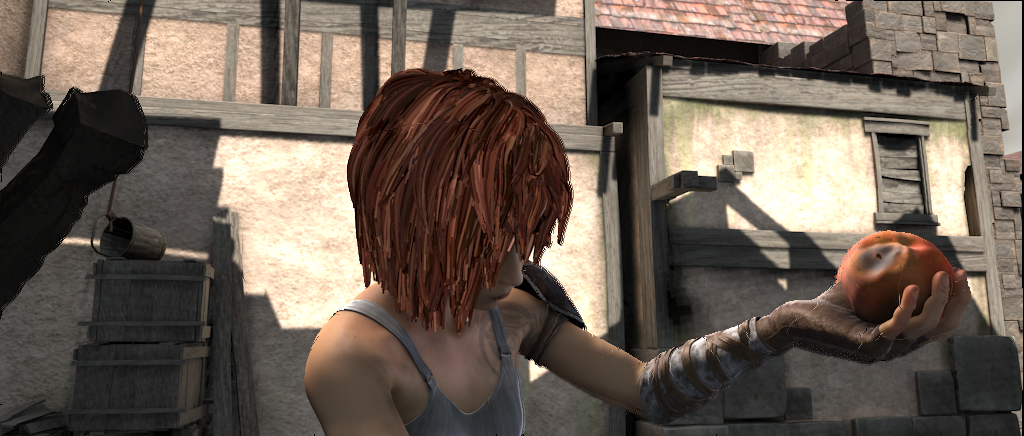
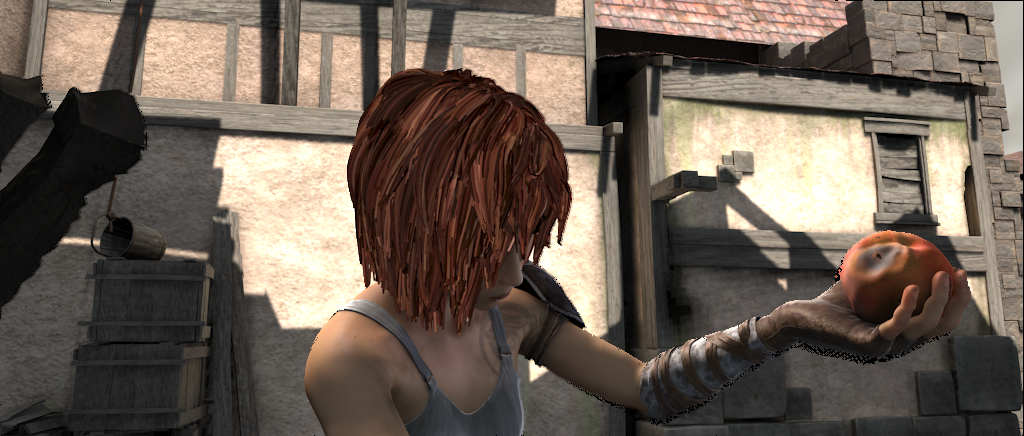
纠正光流:forward_warp中插值的错误; forward_warp添加基于像素距离的判断, 结果和选取运动大的像素差别不大

diff --git a/optical_flow/warp/crane_warp.cpp b/optical_flow/warp/crane_warp.cpp
@@ -7,8 +7,8 @@
 #include <algorithm>
 
 
-template<typename T, typename A, typename B>
-inline T clip(const T x, const A lhs, const B rhs) {
+template<typename S=float, typename T=unsigned char>
+inline T clip(const S x, const T lhs, const T rhs) {
 	if (x < lhs) return lhs;
 	else if (x > rhs) return rhs;
 	else return x;
@@ -72,8 +72,7 @@ void backward_warp_using_flow_inplementation(
 					float down_value = y_low_weight * Q3 + y_high_weight * Q4;
 					// 上下加权
 					float value = x_low_weight * up_value + x_high_weight * down_value;
-					result[(i * width + j) * channel + c] = 
-						clip<type, type, type>(value, 0, 255);
+					result[(i * width + j) * channel + c] = clip(value, 0, 255);
 				}
 			}
 			// 如果是最近邻插值
@@ -149,7 +148,12 @@ inline T square(const T x) {
 }
 
 
-
+/*
+	这种 full 做法不行
+		1. 加权半径 radius 设置多大? 不好控制
+		2. 速度太慢, 不可取
+		3. 加权导致 warp 结果变模糊, 丢失高频细节
+*/
 void full_forward_warp_using_flow_inplementation(
 		unsigned char* result, 
 		unsigned char* source,
@@ -269,42 +273,34 @@ void interp_forward_warp_using_flow_inplementation(
 	}
 	// 第二轮, 找到没被赋值的点, 做赋值
 
-	// 准备一些查表的变量
-	const int spatial_size = square<int>(2 * radius + 1);
-	std::vector< std::pair<int, float> > spatial_lut;
-	for (int x = -radius; x <= radius; ++x) {
-		for (int y = -radius; y <= radius; ++y) {
-			spatial_lut.emplace_back(x * width + y, std::exp(-(square(x) + square(y)) / (2 * square<float>(0.9f))));
-		}
-	} 
-
-	for (int i = radius, i_end = height - radius; i < i_end; ++i) {
-		for (int j = radius, j_end = width - radius; j < j_end; ++j) {
-			// 判断当前前是否被赋值过, 注意上面光流强度一定是大于等于 0 的, 
-			// 则小于 0 的就是没被赋值的, 需要做插值
+	// 准备上下左右四个点的偏移量
+	std::vector<int> neighbor_offset({-width, -1, 1, width});
+	for (int i = 1, i_end = height - 1; i < i_end; ++i) {
+		for (int j = 1, j_end = width - 1; j < j_end; ++j) {
+			// 获取当前位置
 			const int this_pos = i * width + j;
+			// 判断当前位置是否空白的
 			if (flow_intensity[this_pos] < 0) {
-				// 初始化加权量
-				float weight_sum{0.f};
-				std::vector<float> temp(channel, 0.f);
-				// 遍历这个点的邻域
-				for (int k = 0; k < spatial_size; ++k) {
-					// 判断这个点是不是空的, 得有精确的值才能赋值
-					int neighbor = this_pos + spatial_lut[k].first;
-					if (flow_intensity[neighbor] < 0)
+				float weight_sum = 0.f;
+				// 准备存储 rgb 的累计加权值
+				std::vector<int> temp_sum(3, 0.f);
+				// 遍历上下左右
+				for (int k = 0; k < 4; ++k) {
+					// 获取邻居点
+					const int neighbor_pos = this_pos + neighbor_offset[k];
+					// 如果邻居点没有值, 就不加权
+					if (flow_intensity[neighbor_pos] < 0)
 						continue;
-					// 可以加权
-					float spatial_weight = spatial_lut[k].second;
-					weight_sum += spatial_weight;
-					unsigned char* src_ptr = source + neighbor * channel;
+					weight_sum += 1.f;
+					// 这里注意, 采样来源是 result, 而不是 source
 					for (int c = 0; c < channel; ++c) {
-						temp[c] += spatial_weight * src_ptr[c];
+						temp_sum[c] += result[neighbor_pos * channel + c];
 					}
 				}
-				// 赋值
+				// 写入
 				unsigned char* res_ptr = result + this_pos * channel;
 				for (int c = 0; c < channel; ++c) {
-					res_ptr[c] = clip(temp[c] / weight_sum, 0, 255);
+					res_ptr[c] = clip(temp_sum[c] / weight_sum, 0, 255);
 				}
 			}
 		}
@@ -313,6 +309,60 @@ void interp_forward_warp_using_flow_inplementation(
 
 
 
+
+
+
+template<typename S=unsigned char, typename T=float>
+T compute_rgb_diff(const S* const lhs, const S* const rhs, const int length) {
+	T result = 0;
+	for (int i = 0; i < length; ++i) {
+		result += std::abs(lhs[i] - rhs[i]);
+	}
+	return result;
+}
+
+
+
+void guided_forward_warp_using_flow_inplementation(
+		unsigned char* result, 
+		unsigned char* source,
+		unsigned char* guide,
+		float* flow,
+		int height,
+		int width,
+		int channel) {
+	printf("[%d %d %d]\n", height, width, channel);
+	// 记录一个跟 guide 图像最接近的差异
+	std::vector<float> difference(height * width, 1e8);
+	// 遍历每一个点
+	for (int i = 0; i < height; ++i) {
+		for (int j = 0; j < width; ++j) {
+			// 获取 (i, j) 的光流值
+			const int this_pos = i * width + j;
+			const float v = flow[2 * this_pos];
+			const float u = flow[2 * this_pos + 1];
+			// 运动到 (i + u, j + v) 位置上, 取整
+			int x = nearest_round(i + u);
+			int y = nearest_round(j + v);
+			// 截断在合法范围内
+			x = clip<int, int>(x, 0, height - 1);
+			y = clip<int, int>(y, 0, width - 1);
+			const int target_pos = x * width + y;
+			// 计算 source(i, j) 跟 guide(x, y) 的相似性
+			float diff = compute_rgb_diff(source + this_pos * channel, guide + target_pos * channel, channel);
+			// 判断运动到这里的点 source(i, j) 距离 guide(x, y) 会不会更小
+			if (diff < difference[target_pos]) {
+				difference[target_pos] = diff;
+				// 此时可以把 source(i, j) 的点移动到 result(x, y)
+				unsigned char* source_start = source + this_pos * channel;
+				unsigned char* result_start = result + target_pos * channel;
+				for (int c = 0; c < channel; ++c) {
+					result_start[c] = source_start[c];
+				}
+			}
+		}
+	}
+}
 
 
 
@@ -474,6 +524,17 @@ extern "C" {
 		int channel, 
 		int radius) {
 		interp_forward_warp_using_flow_inplementation(result, source, flow, height, width, channel, radius);
+	}
+
+	void guided_forward_warp_using_flow(
+		unsigned char* result, 
+		unsigned char* source,
+		unsigned char* guide,
+		float* flow,
+		int height,
+		int width,
+		int channel) {
+		guided_forward_warp_using_flow_inplementation(result, source, guide, flow, height, width, channel);
 	}
 
 

diff --git a/optical_flow/warp/run_forward_warp.py b/optical_flow/warp/run_forward_warp.py
@@ -29,7 +29,7 @@ make_show        = True if (height * width < 1024 * 768) else False
 
 
 # 获取 image1 → image2 的光流
-use_flow_cache      = False
+use_flow_cache      = True
 save_flow_cache     = False
 forward_flow_cache  = "./images/sintel/forward_flow.npy"
 backward_flow_cache = "./images/sintel/backward_flow.npy"
@@ -49,9 +49,9 @@ if (save_flow_cache and make_show):
 # 展示光流
 forward_flow_visualize  = flow_viz.flow_to_image(forward_flow)[:, :, ::-1]
 backward_flow_visualize = flow_viz.flow_to_image(backward_flow)[:, :, ::-1]
-if (make_show):
-	cv_show(forward_flow_visualize)
-	cv_show(backward_flow_visualize)
+# if (make_show):
+# 	cv_show(forward_flow_visualize)
+# 	cv_show(backward_flow_visualize)
 cv_write("./results/forward_flow_visualize.png",  forward_flow_visualize)
 cv_write("./results/backward_flow_visualize.png", backward_flow_visualize)
 
@@ -64,9 +64,10 @@ os.system("g++ -fPIC -shared -O2 ./crane_warp.cpp -o {}".format(warp_lib_path))
 warp_lib = ctypes.cdll.LoadLibrary(warp_lib_path)
 
 # 简易接口
-def forward_warp(x, flow, mode=""):
+def forward_warp(x, flow, mode="", guide=None):
 	h, w, c = x.shape
 	warped = numpy.zeros((h, w, c), x.dtype)
+	assert x.shape[:2] == flow.shape[:2], "x and flow must have same shape"
 	# 如果在 warp 阶段使用插值
 	if (mode == "full"):
 		warp_lib.full_forward_warp_using_flow(
@@ -80,6 +81,16 @@ def forward_warp(x, flow, mode=""):
 		warp_lib.interp_forward_warp_using_flow(
 			warped.ctypes.data_as(ctypes.c_char_p),
 			x.ctypes.data_as(ctypes.c_char_p),
+			flow.ctypes.data_as(ctypes.c_char_p),
+			h, w, c, 2
+		)
+	# 如果用引导图来帮助判断多个点映射到同一个位置
+	elif (mode == "guide" and guide is not None):
+		assert guide.shape[:2] == flow.shape[:2], "guide and flow must have same shape"
+		warp_lib.guided_forward_warp_using_flow(
+			warped.ctypes.data_as(ctypes.c_char_p),
+			x.ctypes.data_as(ctypes.c_char_p),
+			guide.ctypes.data_as(ctypes.c_char_p),
 			flow.ctypes.data_as(ctypes.c_char_p),
 			h, w, c, 2
 		)
@@ -99,12 +110,18 @@ forward_warp_1to2 = forward_warp(image1, forward_flow)
 cv_write("./results/forward_warp_1to2.png", forward_warp_1to2)
 if (make_show): cv_show(forward_warp_1to2)
 
-# 尝试第一种 warp
+# 尝试第一种 forward warp, 对每一个点都重新插值
 forward_warp_1to2_full = forward_warp(image1, forward_flow, mode="full")
 cv_write("./results/forward_warp_1to2_full.png", forward_warp_1to2_full)
 if (make_show): cv_show(forward_warp_1to2_full)
 
-# 尝试第二种 warp
+# 尝试第二种 forward warp, 只对那些缺失的地方重新插值
 forward_warp_1to2_interp = forward_warp(image1, forward_flow, mode="interpolation")
 cv_write("./results/forward_warp_1to2_interp.png", forward_warp_1to2_interp)
 if (make_show): cv_show(forward_warp_1to2_interp)
+
+
+# 尝试第三种 forward warp, 借助目标图来判断多个点冲突的问题
+forward_warp_1to2_guided = forward_warp(image1, forward_flow, mode="guide", guide=image2)
+cv_write("./results/forward_warp_1to2_guided.png", forward_warp_1to2_guided)
+if (make_show): cv_show(forward_warp_1to2_guided)
